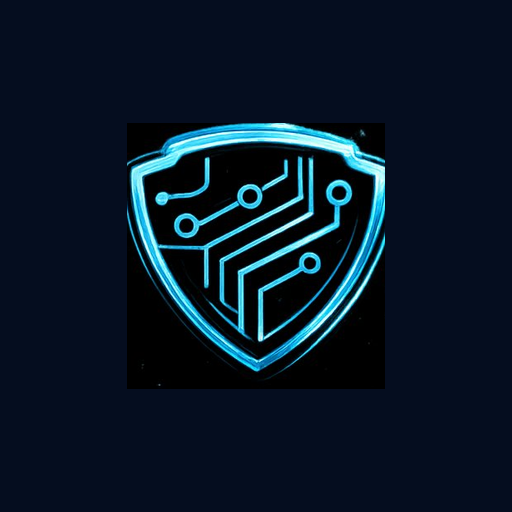
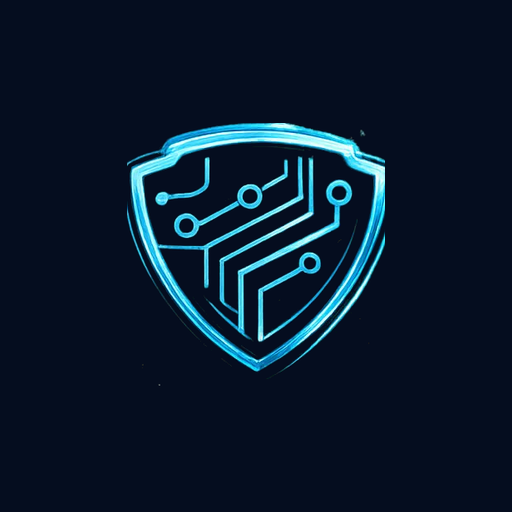
Add files via upload

Changed region(s): [[0.25, 0.2188, 0.75, 0.7812]]

diff --git a/index.html b/index.html
@@ -43,7 +43,7 @@ input,select,textarea{font-family:inherit}
 #login{position:fixed;inset:0;display:flex;align-items:center;justify-content:center;padding:24px;z-index:90}
 .login-card{width:100%;max-width:380px;background:var(--bg-glass);backdrop-filter:blur(18px);border:1px solid var(--border-soft);border-radius:24px;padding:36px 26px;box-shadow:0 24px 60px rgba(0,0,0,.5),var(--glow-cyan)}
 .brand{display:flex;align-items:center;justify-content:center;gap:10px;margin-bottom:6px}
-.brand .logo-mark{width:34px;height:34px}
+.brand .logo-mark{width:40px;height:40px}
 .brand b{font-size:18px;font-weight:800;letter-spacing:.5px}
 .brand b span{color:var(--cyan)}
 .login-sub{text-align:center;color:var(--txt3);font-size:12px;margin-bottom:26px;letter-spacing:.3px}
@@ -252,7 +252,7 @@ input,select,textarea{font-family:inherit}
 
 <div id="login">
   <div class="login-card">
-    <div class="brand"><img id="logo-login" src="/logo-oneclick.png" alt="OneClick CRM" style="max-width:230px;width:100%;height:auto" onerror="this.outerHTML=LOGO_SVG"></div>
+    <div class="brand"><span id="logo-login"></span><b>ONE<span>CLICK</span> CRM</b></div>
     <div class="login-sub">ENTERPRISE v4 · Sua TI sob Controle</div>
     <div class="fld"><label>Usuário</label><input id="lg-user" autocomplete="username" placeholder="email" type="email"></div>
     <div class="fld"><label>Senha</label><input id="lg-pass" type="password" autocomplete="current-password" placeholder="senha"></div>
@@ -264,7 +264,7 @@ input,select,textarea{font-family:inherit}
 <div id="app" class="hidden">
  <div class="app-wrap">
   <div class="topbar">
-    <div class="tb-brand"><img id="logo-top" src="/logo-oneclick.png" alt="OneClick CRM" style="height:30px;width:auto" onerror="this.outerHTML=LOGO_SVG"></div>
+    <div class="tb-brand"><span id="logo-top"></span><div class="tt"><b>ONE<span>CLICK</span> CRM</b><small>ENTERPRISE v4</small></div></div>
     <button class="bell" onclick="irPara('atividades')">🔔<span class="dot">3</span></button>
     <button class="avatar" onclick="irPara('mais')">RS</button>
   </div>
@@ -536,6 +536,7 @@ async function fazerLogin(){
 }
 function sair(){sessionStorage.removeItem('crm_sessao');location.reload();}
 function verificarSessao(){
+  document.getElementById('logo-login').innerHTML=LOGO_SVG;
   const s=sessionStorage.getItem('crm_sessao'),t=sessionStorage.getItem('crm_token');
   if(s&&t){try{sessao=JSON.parse(s);TOKEN=t;entrarApp();return;}catch(e){}}
   document.getElementById('login').classList.remove('hidden');
@@ -543,6 +544,7 @@ function verificarSessao(){
 function entrarApp(){
   document.getElementById('login').classList.add('hidden');
   document.getElementById('app').classList.remove('hidden');
+  document.getElementById('logo-top').innerHTML=LOGO_SVG;
   document.getElementById('robot-home').innerHTML=robotSVG();
   document.getElementById('robot-ai').innerHTML=robotSVG();
   document.getElementById('home-nome').textContent=sessao.nome.split(' ')[0];